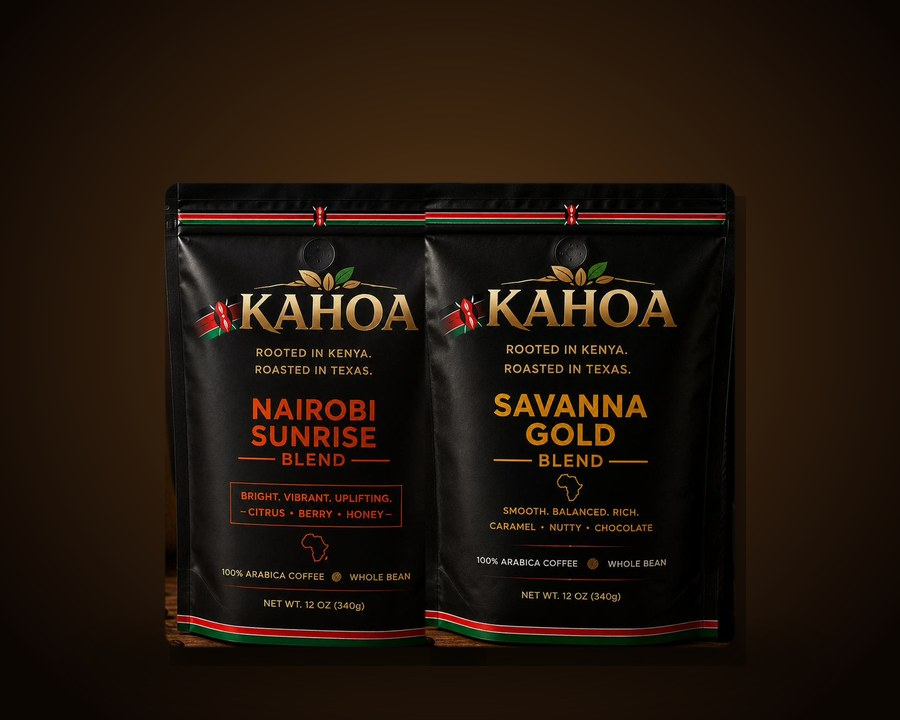
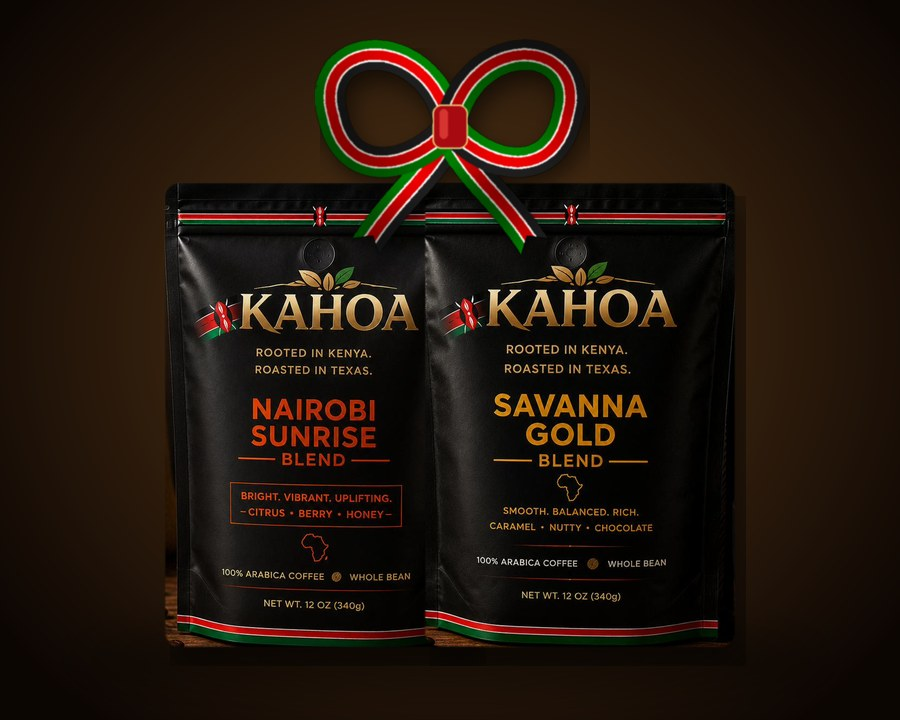
Gift cards: shipping included in prices, single-use codes via worker (with manual fallback), Kenyan-flag bows on bundle images
Claude-Session: https://claude.ai/code/session_01RGeNMpHd4Zkf2WXfT25wvz

Changed region(s): [[0.3422, 0.0306, 0.6533, 0.3667]]

diff --git a/shop.html b/shop.html
@@ -285,7 +285,7 @@ window.kahoaLaborDayActive=window.kahoaIsMemorialSaleActive;
 </div>
 </div>
 </section>
-</div><div class="shop-tab-panel tab-gifts" id="shop-panel-gifts"><section style="padding:92px 6%;background:linear-gradient(180deg,#3d1020 0%,#240912 55%,#170508 100%);border-top:1px solid rgba(232,200,120,.25);"><div style="max-width:1140px;margin:0 auto;"><div style="text-align:center;margin-bottom:34px;"><p class="section-eyebrow" style="color:rgba(212,168,67,0.7)">Gift Cards</p><h2 class="section-title" style="color:#fff">Give Kahoa</h2><p style="color:rgba(255,255,255,0.55);font-size:15px;line-height:1.85;max-width:520px;margin:0 auto;font-weight:300;">Pick a bundle. We give you a gift code the moment you pay. Send it to anyone and they choose their blends and where it ships.</p></div><div class="hiw dk"><span><b>1</b>Pick a bundle</span><span><b>2</b>Pay and get your gift code</span><span><b>3</b>Send the code to your person</span></div><div class="gift-grid"><div class="gc-card" id="gift-collection"><div class="gc-img"><img src="/gift-collection.jpg" alt="The Kahoa Collection gift bundle: 3 coffees + 2 syrups" loading="lazy"><span class="gc-save">Save $10</span></div><div class="gc-body"><h3>The Kahoa Collection</h3><p class="gc-c">3 coffees + 2 syrups</p><p class="gc-p">$86 <small>Shipping included</small></p><a class="gc-btn" href="/gift-cards.html?b=collection">Buy Gift Card</a></div></div><div class="gc-card" id="gift-full-taste"><div class="gc-img"><img src="/gift-full-taste.jpg" alt="The Full Taste gift bundle: 3 coffees + 1 syrup" loading="lazy"><span class="gc-save">Save $8</span></div><div class="gc-body"><h3>The Full Taste</h3><p class="gc-c">3 coffees + 1 syrup</p><p class="gc-p">$70 <small>Shipping included</small></p><a class="gc-btn" href="/gift-cards.html?b=full-taste">Buy Gift Card</a></div></div><div class="gc-card" id="gift-pair-plus"><div class="gc-img"><img src="/gift-pair-plus.jpg" alt="Pair + Syrup gift bundle: 2 coffees + 1 syrup" loading="lazy"><span class="gc-save">Save $6</span></div><div class="gc-body"><h3>Pair + Syrup</h3><p class="gc-c">2 coffees + 1 syrup</p><p class="gc-p">$52 <small>Shipping included</small></p><a class="gc-btn" href="/gift-cards.html?b=pair-plus">Buy Gift Card</a></div></div><div class="gc-card" id="gift-starter"><div class="gc-img"><img src="/gift-starter.jpg" alt="The Starter gift bundle: 1 coffee + 1 syrup" loading="lazy"><span class="gc-save">Save $4</span></div><div class="gc-body"><h3>The Starter</h3><p class="gc-c">1 coffee + 1 syrup</p><p class="gc-p">$34 <small>+ $7.99 shipping</small></p><a class="gc-btn" href="/gift-cards.html?b=starter">Buy Gift Card</a></div></div><div class="gc-card" id="gift-trio"><div class="gc-img"><img src="/gift-trio.jpg" alt="Coffee Trio gift bundle: 3 coffees" loading="lazy"><span class="gc-save">Save $6</span></div><div class="gc-body"><h3>Coffee Trio</h3><p class="gc-c">3 coffees</p><p class="gc-p">$54 <small>Shipping included</small></p><a class="gc-btn" href="/gift-cards.html?b=trio">Buy Gift Card</a></div></div><div class="gc-card" id="gift-coffee-pair"><div class="gc-img"><img src="/gift-coffee-pair.jpg" alt="Coffee Pair gift bundle: 2 coffees" loading="lazy"><span class="gc-save">Save $4</span></div><div class="gc-body"><h3>Coffee Pair</h3><p class="gc-c">2 coffees</p><p class="gc-p">$36 <small>+ $7.99 shipping</small></p><a class="gc-btn" href="/gift-cards.html?b=coffee-pair">Buy Gift Card</a></div></div><div class="gc-card" id="gift-syrup-duo"><div class="gc-img"><img src="/gift-syrup-duo.jpg" alt="Syrup Duo gift bundle: 2 syrups" loading="lazy"><span class="gc-save">Save $4</span></div><div class="gc-body"><h3>Syrup Duo</h3><p class="gc-c">2 syrups</p><p class="gc-p">$32 <small>+ $7.99 shipping</small></p><a class="gc-btn" href="/gift-cards.html?b=syrup-duo">Buy Gift Card</a></div></div><div class="gc-card" id="gift-syrup"><div class="gc-img"><img src="/gift-syrup.jpg" alt="Single Syrup gift bundle: 1 syrup" loading="lazy"></div><div class="gc-body"><h3>Single Syrup</h3><p class="gc-c">1 syrup</p><p class="gc-p">$18 <small>+ $7.99 shipping</small></p><a class="gc-btn" href="/gift-cards.html?b=syrup">Buy Gift Card</a></div></div></div><p style="text-align:center;margin-top:26px;font-size:13px;color:rgba(255,255,255,.55)">Got a gift code? <a href="/gift-redeem.html" style="color:var(--gold);text-decoration:underline">Redeem it here</a></p></div></section></div><div class="shop-tab-panel tab-teamusa" id="shop-panel-teamusa">
+</div><div class="shop-tab-panel tab-gifts" id="shop-panel-gifts"><section style="padding:92px 6%;background:linear-gradient(180deg,#3d1020 0%,#240912 55%,#170508 100%);border-top:1px solid rgba(232,200,120,.25);"><div style="max-width:1140px;margin:0 auto;"><div style="text-align:center;margin-bottom:34px;"><p class="section-eyebrow" style="color:rgba(212,168,67,0.7)">Gift Cards</p><h2 class="section-title" style="color:#fff">Give Kahoa</h2><p style="color:rgba(255,255,255,0.55);font-size:15px;line-height:1.85;max-width:520px;margin:0 auto;font-weight:300;">Pick a bundle. We give you a gift code the moment you pay. Send it to anyone and they choose their blends and where it ships.</p></div><div class="hiw dk"><span><b>1</b>Pick a bundle</span><span><b>2</b>Pay and get your gift code</span><span><b>3</b>Send the code to your person</span></div><div class="gift-grid"><div class="gc-card" id="gift-collection"><div class="gc-img"><img src="/gift-collection.jpg" alt="The Kahoa Collection gift bundle: 3 coffees + 2 syrups" loading="lazy"><span class="gc-save">Save $10</span></div><div class="gc-body"><h3>The Kahoa Collection</h3><p class="gc-c">3 coffees + 2 syrups</p><p class="gc-p">$86 <small>Shipping included</small></p><a class="gc-btn" href="/gift-cards.html?b=collection">Buy Gift Card</a></div></div><div class="gc-card" id="gift-full-taste"><div class="gc-img"><img src="/gift-full-taste.jpg" alt="The Full Taste gift bundle: 3 coffees + 1 syrup" loading="lazy"><span class="gc-save">Save $8</span></div><div class="gc-body"><h3>The Full Taste</h3><p class="gc-c">3 coffees + 1 syrup</p><p class="gc-p">$70 <small>Shipping included</small></p><a class="gc-btn" href="/gift-cards.html?b=full-taste">Buy Gift Card</a></div></div><div class="gc-card" id="gift-pair-plus"><div class="gc-img"><img src="/gift-pair-plus.jpg" alt="Pair + Syrup gift bundle: 2 coffees + 1 syrup" loading="lazy"><span class="gc-save">Save $6</span></div><div class="gc-body"><h3>Pair + Syrup</h3><p class="gc-c">2 coffees + 1 syrup</p><p class="gc-p">$52 <small>Shipping included</small></p><a class="gc-btn" href="/gift-cards.html?b=pair-plus">Buy Gift Card</a></div></div><div class="gc-card" id="gift-starter"><div class="gc-img"><img src="/gift-starter.jpg" alt="The Starter gift bundle: 1 coffee + 1 syrup" loading="lazy"></div><div class="gc-body"><h3>The Starter</h3><p class="gc-c">1 coffee + 1 syrup</p><p class="gc-p">$40 <small>Shipping included</small></p><a class="gc-btn" href="/gift-cards.html?b=starter">Buy Gift Card</a></div></div><div class="gc-card" id="gift-trio"><div class="gc-img"><img src="/gift-trio.jpg" alt="Coffee Trio gift bundle: 3 coffees" loading="lazy"><span class="gc-save">Save $6</span></div><div class="gc-body"><h3>Coffee Trio</h3><p class="gc-c">3 coffees</p><p class="gc-p">$54 <small>Shipping included</small></p><a class="gc-btn" href="/gift-cards.html?b=trio">Buy Gift Card</a></div></div><div class="gc-card" id="gift-coffee-pair"><div class="gc-img"><img src="/gift-coffee-pair.jpg" alt="Coffee Pair gift bundle: 2 coffees" loading="lazy"></div><div class="gc-body"><h3>Coffee Pair</h3><p class="gc-c">2 coffees</p><p class="gc-p">$42 <small>Shipping included</small></p><a class="gc-btn" href="/gift-cards.html?b=coffee-pair">Buy Gift Card</a></div></div><div class="gc-card" id="gift-syrup-duo"><div class="gc-img"><img src="/gift-syrup-duo.jpg" alt="Syrup Duo gift bundle: 2 syrups" loading="lazy"></div><div class="gc-body"><h3>Syrup Duo</h3><p class="gc-c">2 syrups</p><p class="gc-p">$38 <small>Shipping included</small></p><a class="gc-btn" href="/gift-cards.html?b=syrup-duo">Buy Gift Card</a></div></div><div class="gc-card" id="gift-syrup"><div class="gc-img"><img src="/gift-syrup.jpg" alt="Single Syrup gift bundle: 1 syrup" loading="lazy"></div><div class="gc-body"><h3>Single Syrup</h3><p class="gc-c">1 syrup</p><p class="gc-p">$24 <small>Shipping included</small></p><a class="gc-btn" href="/gift-cards.html?b=syrup">Buy Gift Card</a></div></div></div><p style="text-align:center;margin-top:26px;font-size:13px;color:rgba(255,255,255,.55)">Got a gift code? <a href="/gift-redeem.html" style="color:var(--gold);text-decoration:underline">Redeem it here</a></p></div></section></div><div class="shop-tab-panel tab-teamusa" id="shop-panel-teamusa">
 <section style="background:linear-gradient(135deg,#000820 0%,#001550 50%,#bf0a30 100%);padding:64px 6%;text-align:center;position:relative;overflow:hidden;"></section></div>sition:relative;max-width:800px;margin:0 auto;"&gt;<div style="display:flex;align-items:center;justify-content:center;gap:24px;margin-bottom:24px;flex-wrap:wrap;"><img alt="USA Kayak" src="/teamusalogo.png" style="height:56px;width:auto;filter:drop-shadow(0 2px 8px rgba(0,0,0,0.5));" loading="lazy" decoding="async"/><span style="font-family:'Cormorant Garamond',serif;font-size:32px;color:rgba(255,255,255,0.3);">×</span><img alt="Kahoa Coffee" src="/kahoa-logo.png" style="height:96px;width:auto;filter:drop-shadow(0 2px 8px rgba(0,0,0,0.5));"/></div><p style="font-size:11px;letter-spacing:4px;text-transform:uppercase;color:rgba(212,168,67,0.7);margin-bottom:12px;font-weight:600;">Official Coffee Sponsor</p><img alt="Kahoa x USA Kayak Polo Stealth Elite Backpack" src="/backpack-front.png" style="width:100%;max-width:420px;height:auto;display:block;margin:0 auto 20px;filter:drop-shadow(0 14px 16px rgba(0,0,0,.5));" loading="lazy" decoding="async"/><h2 style="font-family:'Cormorant Garamond',serif;font-size:clamp(26px,4vw,46px);font-weight:300;color:#fff;line-height:1.15;margin-bottom:14px;">Fueling the USA Kayak Polo Women's National Team</h2><p style="font-size:15px;color:rgba(255,255,255,0.6);line-height:1.8;font-weight:300;max-width:480px;margin:0 auto 16px;">Built in Kenya. Roasted in Texas. Co-branded gear dropped July 3rd, 2026, and it&rsquo;s still available.</p><p style="font-size:13px;color:rgba(255,255,255,0.5);line-height:1.75;max-width:480px;margin:0 auto 24px;font-style:italic;">These incredible women represented the USA at the <strong style="color:rgba(212,168,67,0.8);">World Championships in Duisburg, Germany</strong> this September. Proud of our girls for representing. A portion of every <strong style="color:rgba(212,168,67,0.8);">Backpack or Bundle</strong> purchase supports the team. 🇺🇸</p><a href="/usa-kayak.html" style="display:inline-block;background:var(--gold);color:var(--coffee-dark);padding:14px 36px;font-family:Montserrat,sans-serif;font-size:12px;font-weight:700;letter-spacing:2px;text-transform:uppercase;text-decoration:none;">See the Collab →</a>
 
 <section style="background:linear-gradient(135deg,#1C0E06 0%,#2C1408 100%);padding:64px 6%;text-align:center;">

diff --git a/gift-cards.html b/gift-cards.html
@@ -110,28 +110,28 @@ var SQUARE_APP_ID='sq0idp-khlBwyn6FQYmXDU8zxjAiQ',SQUARE_LOC='L2M4GT1KDJZPY';
 var WORKER='https://kahoa-checkoutout.chegekibuthu1.workers.dev/charge';
 var SHEET='https://script.google.com/macros/s/AKfycbywSRK7UEk7mTBFCGdk1q4eRHv289hVmWtR1OKDqxLruwmKbRf_GkAwkiuEepPfk22Q/exec';
 var EJSVC='service_wsy9uog',EJTMPL='template_8jwdv8c',EJKEY='quYV-P5H4GYrFzjOw';
-var SHIP_FEE=7.99,SHIP_FREE_AT=50;
+var WORKER_BASE='https://kahoa-checkoutout.chegekibuthu1.workers.dev';
 // code = 2-letter bundle prefix. Keep in sync with gift-redeem.html
 var BUNDLES=[
  {id:'collection',k:'CO',name:'The Kahoa Collection',c:3,s:2,price:86,list:96},
  {id:'full-taste',k:'FT',name:'The Full Taste',c:3,s:1,price:70,list:78},
  {id:'pair-plus',k:'PP',name:'Pair + Syrup',c:2,s:1,price:52,list:58},
- {id:'starter',k:'ST',name:'The Starter',c:1,s:1,price:34,list:38},
+ {id:'starter',k:'ST',name:'The Starter',c:1,s:1,price:40,list:38},
  {id:'trio',k:'TR',name:'Coffee Trio',c:3,s:0,price:54,list:60},
- {id:'coffee-pair',k:'CP',name:'Coffee Pair',c:2,s:0,price:36,list:40},
- {id:'syrup-duo',k:'SD',name:'Syrup Duo',c:0,s:2,price:32,list:36},
- {id:'syrup',k:'SY',name:'Single Syrup',c:0,s:1,price:18,list:18}
+ {id:'coffee-pair',k:'CP',name:'Coffee Pair',c:2,s:0,price:42,list:40},
+ {id:'syrup-duo',k:'SD',name:'Syrup Duo',c:0,s:2,price:38,list:36},
+ {id:'syrup',k:'SY',name:'Single Syrup',c:0,s:1,price:24,list:18}
 ];
 function contents(b){var a=[];if(b.c)a.push(b.c+(b.c>1?' coffees':' coffee'));if(b.s)a.push(b.s+(b.s>1?' syrups':' syrup'));return a.join(' + ')}
 var IMG={collection:'gift-collection','full-taste':'gift-full-taste','pair-plus':'gift-pair-plus',starter:'gift-starter',trio:'gift-trio','coffee-pair':'gift-coffee-pair','syrup-duo':'gift-syrup-duo',syrup:'gift-syrup'};
 var cur=null,payments=null,card=null,squareReady=false;
 function $(id){return document.getElementById(id)}
 function money(n){return '$'+n.toFixed(2)}
-function ship(b){return b.price>=SHIP_FREE_AT?0:SHIP_FEE}
+function ship(b){return 0}
 function total(b){return Math.round((b.price+ship(b))*100)/100}
 function render(){
   var h='';BUNDLES.forEach(function(b){
-    h+='<button type="button" class="b" id="b-'+b.id+'" onclick="choose(\''+b.id+'\')"><div class="im"><img src="/'+IMG[b.id]+'.jpg" alt="'+b.name+' gift bundle" loading="lazy"></div><div class="tx"><h3>'+b.name+'</h3><div class="c">'+contents(b)+'</div><div class="p">'+money(b.price)+'<small>'+(ship(b)?'+ '+money(SHIP_FEE)+' shipping':'Shipping included')+'</small></div></div></button>';});
+    h+='<button type="button" class="b" id="b-'+b.id+'" onclick="choose(\''+b.id+'\')"><div class="im"><img src="/'+IMG[b.id]+'.jpg" alt="'+b.name+' gift bundle" loading="lazy"></div><div class="tx"><h3>'+b.name+'</h3><div class="c">'+contents(b)+'</div><div class="p">'+money(b.price)+'<small>'+'Shipping included'+'</small></div></div></button>';});
   $('grid').innerHTML=h;
 }
 function choose(id){
@@ -139,7 +139,7 @@ function choose(id){
   BUNDLES.forEach(function(b){$('b-'+b.id).classList.toggle('on',b.id===id)});
   $('form').style.display='block';
   $('f-title').textContent=cur.name;
-  $('f-sub').textContent=contents(cur)+(cur.c?'. Your recipient picks the blends.':'. ')+(cur.list>cur.price?' You save '+money(cur.list-cur.price)+' vs. buying separately.':'');
+  $('f-sub').textContent=contents(cur)+(cur.c?'. Your recipient picks the blends.':'. ')+(cur.list>cur.price?' You save '+money(cur.list-cur.price)+' vs. buying separately.':' Shipping to your recipient is included.');
   $('s-name').textContent=cur.name+' ('+contents(cur)+')';
   $('s-price').textContent=money(cur.price);
   $('s-ship').textContent=ship(cur)?money(ship(cur)):'Included';
@@ -155,7 +155,7 @@ async function initSquare(){
   }catch(e){console.error('Square init',e);$('err').textContent='Payment form could not load. Please refresh the page.';$('err').style.display='block'}
 }
 var ALPHA='ABCDEFGHJKMNPQRSTUVWXYZ23456789';
-function makeCode(k){var a=new Uint8Array(6);(window.crypto||window.msCrypto).getRandomValues(a);var s='';for(var i=0;i<6;i++)s+=ALPHA[a[i]%ALPHA.length];return 'KAHOA-'+k+'-'+s}
+function makeCode(k){var a=new Uint8Array(8);(window.crypto||window.msCrypto).getRandomValues(a);var s='';for(var i=0;i<8;i++)s+=ALPHA[a[i]%ALPHA.length];return 'KAHOA-'+k+'-'+s.slice(0,4)+'-'+s.slice(4)}
 async function pay(){
   var first=$('f-first').value.trim(),last=$('f-last').value.trim(),email=$('f-email').value.trim(),err=$('err');
   err.style.display='none';function bad(m){err.textContent=m;err.style.display='block'}
@@ -172,22 +172,24 @@ async function pay(){
     var summary='GIFT CARD: '+b.name+' ('+contents(b)+')';
     var res=await fetch(WORKER,{method:'POST',headers:{'Content-Type':'application/json'},body:JSON.stringify({
       source_id:r.token,verification_token:(r.details&&r.details.verificationToken)||undefined,
-      product_name:summary,grind:'N/A',quantity:1,unit_price_cents:Math.round(b.price*100),shipping:ship(b)>0?{serviceName:'Gift shipping',amountCents:Math.round(ship(b)*100)}:null,
+      product_name:summary,grind:'N/A',quantity:1,unit_price_cents:Math.round(b.price*100),shipping:null,
       buyer:{name:name,email:email,phone:'',address:'Gift card (digital delivery)'}})});
     var d=await res.json();
     var charged=d.success===true||(d.payment_id&&!d.checkout_url);
     if(!res.ok||!charged){bad('Payment failed: '+(d.errors&&d.errors[0]?d.errors[0].detail:(d.error||'please try again')));btn.disabled=false;btn.textContent='Buy gift card';return}
     // paid: only now do we create the code
-    var code=makeCode(b.k),to=$('f-to').value.trim(),note=$('f-msg').value.trim();
+    var to=$('f-to').value.trim(),note=$('f-msg').value.trim(),code='',registered=false;
+    try{var ir=await fetch(WORKER_BASE+'/gift/issue',{method:'POST',headers:{'Content-Type':'application/json'},body:JSON.stringify({payment_id:d.payment_id,bundle:b.id,buyer_name:name,buyer_email:email,recipient:to,message:note})});var idat=await ir.json();if(ir.ok&&idat.code){code=idat.code;registered=true}}catch(x){console.error('gift issue',x)}
+    if(!code)code=makeCode(b.k);
     var share=(to?'Hi '+to+',\n\n':'Hi,\n\n')+first+' sent you a Kahoa Coffee gift: '+b.name+' ('+contents(b)+').'+(note?'\n\n"'+note+'"':'')+'\n\nYour gift code: '+code+'\n\nRedeem it at https://kahoa.shop/gift-redeem.html\nYou pick your blends and where it ships.';
     $('form').style.display='none';$('pick').style.display='none';$('ok').style.display='block';window.scrollTo(0,0);
     $('o-email').textContent=email;$('o-code').textContent=code;$('o-what').textContent=b.name+' ('+contents(b)+')';$('o-msg').textContent=share;
     $('o-mail').href='mailto:?subject='+encodeURIComponent('A Kahoa Coffee gift for you')+'&body='+encodeURIComponent(share);
-    var tp={to_email:'info@kahoa.shop',order_id:d.payment_id||d.order_id||('GIFT-'+Date.now()),order_type:'GIFT CARD PURCHASED',customer_name:name,customer_email:email,customer_phone:'',customer_address:'Digital gift card',product_name:summary+' | CODE: '+code,grind:'N/A',price:money(amt),shipping_method:'Gift shipping '+(ship(b)?money(ship(b)):'included'),checkout_url:d.receipt_url||'',notes:'Gift code '+code+' for '+b.name+'. Recipient: '+(to||'not given')+'. Message: '+(note||'none')+'. Code is redeemed at kahoa.shop/gift-redeem.html and shows up in the sheet as a GIFT REDEMPTION row. Mark it used there.'};
+    var tp={to_email:'info@kahoa.shop',order_id:d.payment_id||d.order_id||('GIFT-'+Date.now()),order_type:'GIFT CARD PURCHASED',customer_name:name,customer_email:email,customer_phone:'',customer_address:'Digital gift card',product_name:summary+' | CODE: '+code,grind:'N/A',price:money(amt),shipping_method:'Gift shipping included',checkout_url:d.receipt_url||'',notes:(registered?'Code registered: it works once, automatically. ':'WARNING: code was NOT registered with the gift server. Add it by hand or the redeem page will run in manual mode for it. ')+'Gift code '+code+' for '+b.name+'. Recipient: '+(to||'not given')+'. Message: '+(note||'none')+'.'};
     if(typeof emailjs!=='undefined'){emailjs.init(EJKEY);
       emailjs.send(EJSVC,EJTMPL,tp).catch(function(e){console.error(e)});
       emailjs.send(EJSVC,EJTMPL,Object.assign({},tp,{to_email:email,order_type:'Your Kahoa Gift Card Code',customer_address:'Send this code to your recipient',notes:'Your gift code is '+code+' ('+b.name+'). Send it to your recipient. They redeem it at https://kahoa.shop/gift-redeem.html and choose their blends and shipping address. The code works one time and does not expire.'})).catch(function(e){console.error(e)})}
-    try{fetch(SHEET,{method:'POST',mode:'no-cors',headers:{'Content-Type':'application/json'},body:JSON.stringify({timestamp:new Date().toISOString(),name:name,email:email,phone:'',product:'GIFT CARD SOLD: '+b.name+' ('+contents(b)+')'+(to?' for '+to:''),grind:'N/A',total:money(amt),coupon:code,address:'',opted_in:'Yes',source:'kahoa.shop/gift-card'})})}catch(x){}
+    try{fetch(SHEET,{method:'POST',mode:'no-cors',headers:{'Content-Type':'application/json'},body:JSON.stringify({timestamp:new Date().toISOString(),name:name,email:email,phone:'',product:'GIFT CARD SOLD'+(registered?'':' (NOT REGISTERED)')+': '+b.name+' ('+contents(b)+')'+(to?' for '+to:''),grind:'N/A',total:money(amt),coupon:code,address:'',opted_in:'Yes',source:'kahoa.shop/gift-card'})})}catch(x){}
   }catch(e){bad('Error: '+e.message);btn.disabled=false;btn.textContent='Buy gift card'}
 }
 function copyText(id,msg){var t=$(id).textContent;function done(){$('o-flash').textContent=msg}

diff --git a/gift-redeem.html b/gift-redeem.html
@@ -50,7 +50,7 @@ button.pay:disabled{opacity:.6;cursor:default}
 
     <div class="box">
       <label style="margin-top:0">Gift code</label>
-      <input id="code" placeholder="KAHOA-XX-XXXXXX" autocomplete="off" autocapitalize="characters" oninput="check()">
+      <input id="code" placeholder="KAHOA-XX-XXXX-XXXX" autocomplete="off" autocapitalize="characters" oninput="check()">
       <div class="what" id="what"></div>
       <div class="err" id="cerr"></div>
     </div>
@@ -64,7 +64,7 @@ button.pay:disabled{opacity:.6;cursor:default}
       <label>ZIP</label><input id="f-zip" inputmode="numeric" maxlength="5" autocomplete="postal-code">
       <div class="err" id="err"></div>
       <button class="pay" id="go" onclick="redeem()">Redeem my gift</button>
-      <p class="note">Each code works one time. We check your code before we ship. Coffee is roasted fresh to order. Syrup ships starting November 16.</p>
+      <p class="note">Each code works one time. Coffee is roasted fresh to order. Syrup ships starting November 16.</p>
     </div>
   </div>
 
@@ -82,18 +82,30 @@ var EJSVC='service_wsy9uog',EJTMPL='template_8jwdv8c',EJKEY='quYV-P5H4GYrFzjOw';
 // keep in sync with gift-cards.html
 var BY={CO:{name:'The Kahoa Collection',c:3,s:2},FT:{name:'The Full Taste',c:3,s:1},PP:{name:'Pair + Syrup',c:2,s:1},ST:{name:'The Starter',c:1,s:1},TR:{name:'Coffee Trio',c:3,s:0},CP:{name:'Coffee Pair',c:2,s:0},SD:{name:'Syrup Duo',c:0,s:2},SY:{name:'Single Syrup',c:0,s:1}};
 var BLENDS=['Nairobi Sunrise','Savanna Gold','Ngong Dark Reserve'];
-var cur=null,curCode='';
+var cur=null,curCode='',mode='manual',WORKER_BASE='https://kahoa-checkoutout.chegekibuthu1.workers.dev',seq=0;
 function $(id){return document.getElementById(id)}
 function contents(b){var a=[];if(b.c)a.push(b.c+(b.c>1?' coffees':' coffee'));if(b.s)a.push(b.s+(b.s>1?' syrups':' syrup'));return a.join(' + ')}
-function check(){
-  var v=$('code').value.toUpperCase().replace(/[^A-Z0-9-]/g,'');$('code').value=v;
-  $('cerr').style.display='none';
-  var m=v.match(/^KAHOA-([A-Z]{2})-([A-Z0-9]{6})$/);
-  if(!m||!BY[m[1]]){cur=null;$('what').style.display='none';$('step2').style.display='none';if(v.length>=14){$('cerr').textContent='That code does not look right. Please check it and try again.';$('cerr').style.display='block'}return}
-  cur=BY[m[1]];curCode=v;
-  $('what').innerHTML='<b>'+cur.name+'</b><br>'+contents(cur)+(cur.s?'. The syrup is Mombasa Wildflower Honey &amp; Cardamom.':'');$('what').style.display='block';
-  var h='';for(var i=1;i<=cur.c;i++){h+='<label>Coffee '+i+'</label><div class="pickrow"><select id="cb'+i+'">'+BLENDS.map(function(x){return '<option>'+x+'</option>'}).join('')+'</select><select id="cg'+i+'"><option>Whole bean</option><option>Ground</option></select></div>'}
-  $('picks').innerHTML=h;$('step2').style.display='block';
+function norm(v){var t=v.toUpperCase().replace(/[^A-Z0-9]/g,'');if(t.indexOf('KAHOA')===0)t=t.slice(5);
+  var out='KAHOA';if(t.length>0)out+='-'+t.slice(0,2);if(t.length>2)out+='-'+t.slice(2,6);if(t.length>6)out+='-'+t.slice(6,10);return out}
+function showBundle(b,note){cur=b;
+  $('what').innerHTML='<b>'+b.name+'</b><br>'+contents(b)+(b.s?'. The syrup is Mombasa Wildflower Honey &amp; Cardamom.':'')+(note||'');$('what').style.display='block';
+  var h='';for(var i=1;i<=b.c;i++){h+='<label>Coffee '+i+'</label><div class="pickrow"><select id="cb'+i+'">'+BLENDS.map(function(x){return '<option>'+x+'</option>'}).join('')+'</select><select id="cg'+i+'"><option>Whole bean</option><option>Ground</option></select></div>'}
+  $('picks').innerHTML=h;$('step2').style.display='block'}
+function cerr(m){cur=null;$('what').style.display='none';$('step2').style.display='none';$('cerr').textContent=m;$('cerr').style.display='block'}
+async function check(){
+  var raw=$('code').value;if(raw.toUpperCase().replace(/[^A-Z0-9]/g,'').length>=5)$('code').value=norm(raw);
+  var v=$('code').value;$('cerr').style.display='none';var my=++seq;
+  var m=v.match(/^KAHOA-([A-Z]{2})-([A-Z0-9]{4})-([A-Z0-9]{4})$/);
+  if(!m){cur=null;$('what').style.display='none';$('step2').style.display='none';return}
+  curCode=v;mode='manual';
+  var data=null;
+  try{var r=await fetch(WORKER_BASE+'/gift/check',{method:'POST',headers:{'Content-Type':'application/json'},body:JSON.stringify({code:v})});if(r.ok){var j=await r.json();if(j&&typeof j.valid==='boolean')data=j}}catch(e){}
+  if(my!==seq)return;
+  if(data){
+    if(!data.valid){return cerr(data.reason==='redeemed'?'This gift code has already been used.':'We do not recognize that code. Please check it and try again.')}
+    mode='server';return showBundle(data.bundle)}
+  if(!BY[m[1]])return cerr('That code does not look right. Please check it and try again.');
+  showBundle(BY[m[1]])
 }
 async function redeem(){
   var name=$('f-name').value.trim(),email=$('f-email').value.trim(),phone=$('f-phone').value.trim(),addr=$('f-addr').value.trim(),city=$('f-city').value.trim(),st=$('f-state').value.trim().toUpperCase(),zip=$('f-zip').value.trim(),err=$('err');
@@ -107,7 +119,13 @@ async function redeem(){
   if(cur.s)picks.push(cur.s+' x Mombasa Wildflower Syrup');
   var full=addr+', '+city+', '+st+' '+zip,summary='GIFT REDEMPTION ['+curCode+'] '+cur.name+': '+picks.join(', ');
   var btn=$('go');btn.disabled=true;btn.textContent='Sending...';
-  try{fetch(SHEET,{method:'POST',mode:'no-cors',headers:{'Content-Type':'application/json'},body:JSON.stringify({timestamp:new Date().toISOString(),name:name,email:email,phone:phone,product:summary,grind:picks.join(' | '),total:'Gift card',coupon:curCode,address:full,opted_in:'Yes',source:'kahoa.shop/gift-redeem'})})}catch(x){}
+  if(mode==='server'){
+    try{var rr=await fetch(WORKER_BASE+'/gift/redeem',{method:'POST',headers:{'Content-Type':'application/json'},body:JSON.stringify({code:curCode,picks:picks,name:name,email:email,phone:phone,address:full})});var rj={};try{rj=await rr.json()}catch(x){}
+      if(rr.status===409||rj.reason==='redeemed'){btn.disabled=false;btn.textContent='Redeem my gift';return bad('This gift code has already been used.')}
+      if(!rr.ok||!rj.ok){btn.disabled=false;btn.textContent='Redeem my gift';return bad('We could not redeem that code. Please check it and try again, or email info@kahoa.shop.')}
+    }catch(e){btn.disabled=false;btn.textContent='Redeem my gift';return bad('Connection problem. Please try again in a moment.')}
+  }
+  try{fetch(SHEET,{method:'POST',mode:'no-cors',headers:{'Content-Type':'application/json'},body:JSON.stringify({timestamp:new Date().toISOString(),name:name,email:email,phone:phone,product:summary+(mode==='server'?' [VERIFIED, code now used]':' [UNVERIFIED - check the code]'),grind:picks.join(' | '),total:'Gift card',coupon:curCode,address:full,opted_in:'Yes',source:'kahoa.shop/gift-redeem'})})}catch(x){}
   try{if(typeof emailjs!=='undefined'){emailjs.init(EJKEY);emailjs.send(EJSVC,EJTMPL,{to_email:email,reply_to:'info@kahoa.shop',order_id:'GIFT-'+curCode,order_type:'Your Kahoa Gift Is Confirmed',customer_name:name,customer_email:email,customer_phone:phone,customer_address:full,product_name:cur.name+': '+picks.join(', '),grind:'N/A',price:'Gift card',shipping_method:'Included',checkout_url:'',notes:'We got your gift redemption (code '+curCode+'). We will check your code and email you before it ships. Coffee is roasted fresh to order. Syrup ships starting November 16.'}).catch(function(e){console.error(e)})}}catch(x){}
   $('main').style.display='none';$('ok').style.display='block';window.scrollTo(0,0);
   $('ok-t').textContent='We got your redemption for '+cur.name+' and sent a confirmation to '+email+'. We will check your code and email you before it ships.';
